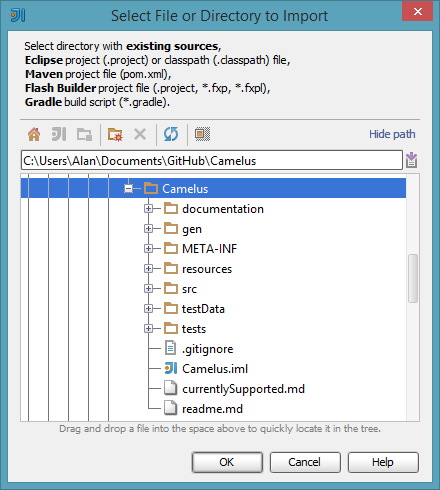
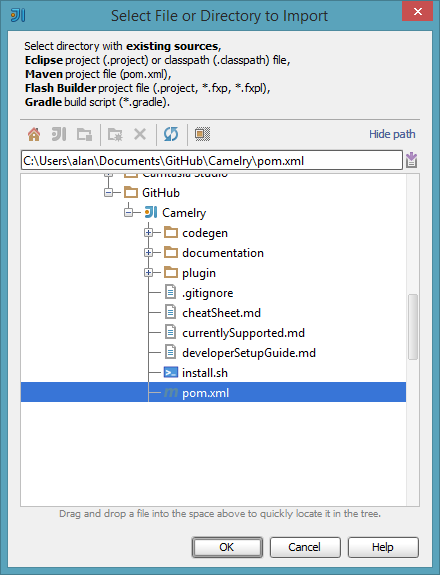
Document the new method of importing and the updated plugin requirements for #51

Changed region(s): [[0.0, 0.0, 1.0, 0.9796], [0.9159, 0.6122, 0.9455, 0.6429]]

diff --git a/developerSetupGuide.md b/developerSetupGuide.md
@@ -1,9 +1,38 @@
 *Note - this documentation is currently under development*
 
-Building
+Developer Setup
 ===============
 
-This plugin makes use of [Maven](http://maven.apache.org/) for dependency management and building. 
+Setting up your environment for IntelliJ plugin development is extremely easy;
+These steps should guide you through the process of getting started with IntelliJ Plugin Development.
+Be sure to fire any [questions or issues](../../issues) our way!
+
+Prerequisites
+-------------------------
+
+####Download IntelliJ
+###### 1. Download Intellij IDE
+
+If you haven't already, make sure you have installed either the Ultimate or Community Edition of [IntelliJ](http://www.jetbrains.com/idea/).
+
+
+###### 2. Download Intellij IDE sources
+
+The [IntelliJ community edition sourcecode](https://github.com/JetBrains/intellij-community) is available on GitHub.
+You will either need to git Clone or Download the sources
+
+
+###### 3. Add Intellij SDk
+
+Add a new IntelliJ project SDK. Be sure to Update the sourcepath to include your downloaded IntelliJ sources.
+
+![IntellijSDKImportSources](/documentation/setup/IntellijSDKImportSources.png "IntellijSDKImportSources")
+
+
+####Setup Maven
+
+
+This plugin currently makes use of [Maven](http://maven.apache.org/) for dependency management. You should install this 
 
 Jetbrains do not currently host publicly up-to-date dependencies for IntelliJ, therefore you must install these yourself.
 
@@ -24,44 +53,17 @@ As plugin makes use of IntelliJ GUI forms, we require an additional compile step
 
 Please follow the [ideaui-designer-maven-plugin](https://github.com/gshakhn/ideauidesigner-maven-plugin/tree/12.x) 12.x branch install instructions, which are available within the project's read-me file.
 
-###### 3. Run Maven install
-
-After you have installed the required dependencies, you should now be able to  succesfully trigger a project build with
-
-	mvn install
-
-Developer Setup
-===============
-
-Setting up your environment for IntelliJ plugin development is extremely easy;
-These steps should guide you through the process of getting started with IntelliJ Plugin Development.
-Be sure to fire any [questions or issues](../../issues) our way!
-
-
-Prerequisites
--------------------------
-
-###### 1. Download Intellij IDE
-
-If you haven't already, make sure you have installed either the Ultimate or Community Edition of [IntelliJ](http://www.jetbrains.com/idea/).
-
-###### 2. Download Intellij IDE sources
-
-The [IntelliJ community edition sourcecode](https://github.com/JetBrains/intellij-community) is available on GitHub.
-You will either need to git Clone or Download the sources
-
-###### 4. Installing Additional Developer Plugins
+####Installing Developer Plugins
 
 Add a new IntelliJ project SDK. Update the sourcepath to include your downloaded IntelliJ sources.
 
-![IntellijSDKImportSources](/documentation/setup/IntellijSDKImportSources.png "IntellijSDKImportSources")
-
-###### 3. Installing Additional Developer Plugins
 
 Developing a plugin for IntelliJ is 100% out of the box.
 
 However the following are additional plugins which will make development work easier;
 
+- [Intellij plugin development with Maven](http://plugins.jetbrains.com/plugin/7127?pr=idea) - Allows for a Maven module to be picked up as an IntelliJ plugin
+- [Scala Support](http://plugins.jetbrains.com/plugin/?id=1347) - Only required if you are updating the CodeGen module
 - [Grammar-Kit](http://plugins.jetbrains.com/plugin?pluginId=6606) - Tooling for editing BNF grammars and parser generation
 - [JFlex](http://plugins.jetbrains.com/plugin?pluginId=263) - Enables JFlex support for [lexical analysis](http://en.wikipedia.org/wiki/Lexical_analysis)
 - [PsiViewer](http://plugins.jetbrains.com/plugin/?pluginId=227) - A very nice tool which allows view in a hierarchical manner the [PSI Elements](http://confluence.jetbrains.com/display/IDEADEV/IntelliJ+IDEA+Architectural+Overview#IntelliJIDEAArchitecturalOverview-PsiElements) within a document.
@@ -74,37 +76,32 @@ However the following are additional plugins which will make development work ea
 Importing the IntelliJ project
 ---------------------
 
-###### Step 1: Import the Project
+As this plugin makes use of Maven you should make sure you have installed the pre-requiste plugin 'Intellij plugin development with Maven', which will allow for IntelliJ to pickup your plugin module succesfully.
+
+###### 1: Import the Project
 
 Select the Import Project option from the Quick Start Menu
 
 ![ImportProject](/documentation/setup/ImportProject.png "ImportProject")
 
-###### Step 2: Select Import Directory
+###### 2: Import the Maven Project
 
-Point to the root directory of your Git clone.
+Select the pom.xml file
 
 ![ImportRootDirectory](/documentation/setup/ImportRootDirectory.png "ImportRootDirectory")
 
-###### Step 3: Import Project Type
+###### 4: Select Project SDK
 
-Select Create project from existing soruces.
-This will allow IntelliJ to make use of the existing project configuration file
-
-![ExistingSources](/documentation/setup/ExistingSources.png "ExistingSources")
-
-###### Step 4: Select Project SDK
-
-Create a new Intellij IDEA SDK
+After selecting through the options you will need to create new Intellij IDEA SDK
 
 ![IntelliJSDK](/documentation/setup/IntelliJSDK.png "IntelliJSDK")
 
 *Note* - You may find it useful to also download the IntelliJ community edition source code and update your SDK's
-sourcepath, as mentioned in the Prerequisites section.
+sourcepath, as mentioned in the Pre-requisites section.
 
-###### Step 5: Create a plugin configuration
+###### 5: Create a plugin configuration
 
-Once your project has loaded you will need to add a new Plugin Configuratoin
+Once your project has loaded you will need to add a new Plugin Configuration
 
 ![ConfigurationWindow](/documentation/setup/ConfigurationWindow.png "ConfigurationWindow")
 
